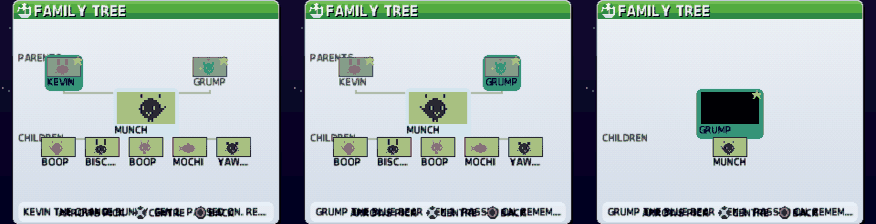
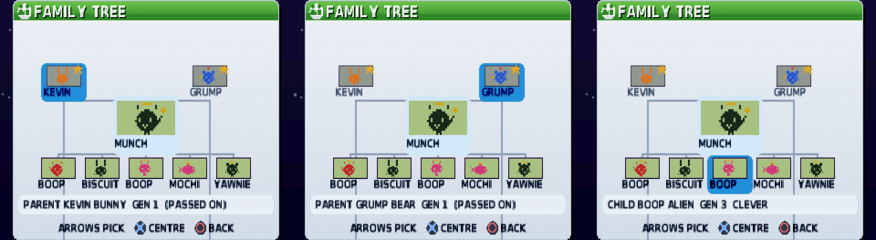
Boreagotchi UI: fix overlapping hints, tree labels and dress title; AUTO_GVIEWS screen tour
Claude-Session: https://claude.ai/code/session_01HmRg38Ho1eHKsYp7LCd8R6

diff --git a/src/gotchi_ui.c b/src/gotchi_ui.c
@@ -577,13 +577,13 @@ static void draw_friend(void) {
     sprintf(s, "%s THE %s", gx_given(c->nm), nm); strip(s);
     sprintf(s, u == t ? "YOURS" : "%s'S", os >= 0 ? sims[os].bore.first : "?"); lt(84, 22, s); lt(84, 34, relname(ck()->id, kc->id)); sprintf(s, "%d OF %d", sub + 1, fr_n); lt(84, 46, s);
     sprintf(s, "%s", gx_pers(kc->pers)); lt(84, 58, s); ui_icon_s(84, 72, IC_HEART, 12, c->bond >= 60 ? UI_RED : UI_LINE); lt(100, 74, c->bond >= 60 ? "CLOSE" : "NEW");
-    bar_msg("X PLAYDATE  SQ BATTLE  LR PICK  UD OTHER FAMILY");
+    bar_msg("X PLAY  SQ BATTLE  LR PICK  UD FAMILY");
 }
 static void draw_dress(void) {
     draw_hand(1); lcd_panel(); Blob *b = cb(); Kin k = *ck(); k.acc = (u8)sub; char s[40];
     scene(b, &k, anim / 20, 0, danceT > 0 ? MD_DANCE : MD_HAPPY); dots_draw(80, 18, 4, 0, 16, 0, 32);
-    ltc(160, 20, gx_acc(sub)); { const Toy *t = tt(); if (sub == 0 || (t->accs & (1 << sub))) s[0] = 0, strcpy(s, sub == ck()->acc ? "WEARING IT" : "OWNED"); else sprintf(s, "$%d", gx_acc_cost(sub)); lt(84, 100, s); }
-    sprintf(s, "%d / %d", sub + 1, NACC); lt(210, 100, s); ui_hints(160, 217, "X WEAR|LR PICK|O BACK", 1);
+    ltc(160, 100, gx_acc(sub)); { const Toy *t = tt(); if (sub == 0 || (t->accs & (1 << sub))) s[0] = 0, strcpy(s, sub == ck()->acc ? "WEARING IT" : "OWNED"); else sprintf(s, "$%d", gx_acc_cost(sub)); lt(84, 16, s); }
+    sprintf(s, "%d / %d", sub + 1, NACC); lt(210, 16, s); ui_hints(160, 217, "X WEAR|LR PICK|O BACK", 1);
 }
 static void draw_more(void) {
     draw_hand(1); lcd_panel(); static const char *const it[5] = { "FAMILY HOME", "PET DIARY", "AWARDS", "BLOBDEX", "HELP PAGES" };
@@ -621,7 +621,7 @@ static void draw_dexd(void) {
     for (int i = 0; i < GFORMS; i++) { int x = 20 + i * 47, h = gotchi_dex_has(dexsel, i); ui_round(x - 1, top + 86, 46, 26, 5, i == dexf ? UI_BLUE : UI_LINE, i == dexf ? UI_BLUE : UI_LINE, 0);
         ui_round(x, top + 87, 44, 24, 4, h ? UI_RGB(172, 196, 128) : UI_RGB(206, 214, 232), h ? UI_RGB(172, 196, 128) : UI_RGB(206, 214, 232), 0); dex_pet(dexsel, i, col, h, x - 2, top + 87, 1, 0); chip(x + 22, top + 114, h ? gx_form(i) : "???", h ? fcol[i] : UI_LINE, UI_WHITE); }
     ui_text(20, top + 134, 1, "COLOURS SEEN", UI_INK); for (int c = 0; c < 8; c++) { int sn = gotchi_cdex_has(dexsel, c); const u8 *p = PAL[c]; ui_disc(32 + c * 28, top + 156, 16, sn ? UI_RGB(p[0], p[1], p[2]) : UI_LINE); if (!sn) ui_textc(32 + c * 28, top + 152, 1, "?", UI_WHITE); }
-    ui_wrap(20, top + 166, 270, 2, "FAMILIES CAN HAND DOWN COLOURS, KINDS AND RARE MUTATIONS.", UI_SOFT);
+    ui_textfit(20, top + 168, 276, "KIDS CAN INHERIT COLOURS AND RARE MUTATIONS", UI_SOFT);
     ui_hints(160, 214, "LR FORM|O BACK", 1);
 }
 // ---- the family tree ----
@@ -647,7 +647,7 @@ void tree_input(int pr) {
 static void draw_tree(void) {
     sky(); ui_accent = 2; int top = ui_window(14, 8, 292, 224, "FAMILY TREE", IC_PEOPLE); ui_accent = 0; tree_build();
     if (!ntn) { ui_wrapc(30, top + 40, 260, 3, "THIS PET HAS NO FAMILY RECORD YET. EGGS FROM A PAIR START A TREE.", UI_SOFT); ui_hints(160, 214, "O BACK", 1); return; }
-    static const int ry[4] = { 0, 32, 64, 112 };
+    static const int ry[4] = { 0, 32, 64, 118 };
     int sy = top + 2;
     for (int i = 0; i < ntn; i++) {   // the lines first: from each parent's foot down to the child's head
         if (tn[i].row == 2 && tn[i].id != treeId) continue;
@@ -657,15 +657,15 @@ static void draw_tree(void) {
     }
     for (int i = 0; i < ntn; i++) {
         const Line *l = gotchi_line(tn[i].id); if (!l) continue; Blob b; Kin k; kin_blob(&b, &k, l); int sel = i == treeSel, alive = l->fc & 128, gone = (l->fc & 64) != 0, row = tn[i].row, x = tn[i].x, y = sy + ry[row] + 4;
-        int self = tn[i].id == treeId; int w = self ? 68 : 36;
-        if (self) { ui_round(x - 36, y - 4, 72, 52, 7, UI_HILITE, UI_HILITE, 0); }
-        if (sel) ui_round(x - w / 2 - 3, y - 3, w + 6, self ? 50 : 36, 6, UI_BLUE, UI_BLUE, 0);
+        int self = tn[i].id == treeId; int w = self ? 68 : 44;
+        if (self) { ui_round(x - 36, y - 4, 72, 55, 7, UI_HILITE, UI_HILITE, 0); }
+        if (sel) ui_round(x - w / 2 - 3, y - 3, w + 6, self ? 53 : 36, 6, UI_BLUE, UI_BLUE, 0);
         if (self) { scene(&b, &k, anim / 20, 0, MD_NORM); gfx_rect(x - 32, y, 64, 32, alive ? 172 : 150, alive ? 196 : 158, alive ? 128 : 150, 0); dots_all(x - 32, y, 2); }
         else mini_tile(&b, &k, x - 18, y, 36, gone);
-        ui_textfit(x - w / 2, y + (self ? 34 : 20), w, gx_given(l->nm), gone ? UI_SOFT : UI_INK);
+        ui_textfit(x - w / 2, y + (self ? 36 : 20), w, gx_given(l->nm), gone ? UI_SOFT : UI_INK);
         if (gone) ui_icon_s(x + (self ? 24 : 10), y - 2, IC_STAR, 10, UI_AMBER);
     }
-    { const Line *l = gotchi_line(tn[treeSel].id); char s[80]; int by = top + 152;
+    { const Line *l = gotchi_line(tn[treeSel].id); char s[80]; int by = top + 158;
       ui_round(20, by, 280, 18, 6, UI_PANEL, UI_PANEL, 0);
       if (l) { static const char *const rw[4] = { "GRANDPARENT", "PARENT", "", "CHILD" }; int rn = tn[treeSel].row; sprintf(s, "%s %s %s  GEN %d  %s", rn == 2 ? (tn[treeSel].id == treeId ? "THIS PET" : "SIBLING") : rw[rn], gx_given(l->nm), gx_species(l->sp), (l->pg >> 3) + 1, (l->fc & 64) ? "(PASSED ON)" : gx_pers(l->pg & 7)); ui_textfit(26, by + 5, 270, s, UI_INK); } }
     ui_hints(160, 214, "ARROWS PICK|X CENTRE|O BACK", 1);
@@ -788,6 +788,10 @@ static void draw_guide(void) {
     { char b[16]; sprintf(b, "%d OF %d", guidepage + 1, NGP); ui_text(24, 216, 1, b, UI_SOFT); } ui_hints(160, 214, "L1 R1 PAGE|O BACK", 1);
 }
 void gotchi_draw(void) {
+#ifdef AUTO_GVIEWS
+    { static int n; static const u8 vl[] = { V_BOX, V_BASKET, V_HAND, V_DEX, V_DEXD, V_FEED, V_PLAYPICK, V_FRIEND, V_STATS, V_GUIDE, V_TREE, V_HOME, V_DIARY, V_AWARD, V_MORE, V_DRESS, V_TREE, V_LOOK, V_COPY, V_CATCH, V_HILO, V_TREE, V_TREE };
+      int k = n++ / 60; if (k < (int)sizeof vl && n % 60 == 1) { view = vl[k]; sub = (k == 9) ? 0 : 1; bi = 0; isel = 0; treeId = 0; treeSel = k == 16 ? 1 : k == 21 ? 4 : k == 22 ? 5 : 0; dexsel = 17; dexf = 1; gach = 0x2A5; homeSel = 3; if (view == V_LOOK) start_look(); if (view == V_COPY) start_copy(); if (view == V_CATCH) start_catch(); if (view == V_HILO) start_hilo(); } }
+#endif
     switch (view) {
     case V_BOX: draw_box(); break; case V_BASKET: draw_basket(); break; case V_HAND: draw_hand(0); break; case V_FEED: draw_feed(); break;
     case V_PLAYPICK: draw_playpick(); break; case V_LOOK: draw_look(); break; case V_COPY: draw_copy(); break; case V_CATCH: draw_catch(); break; case V_HILO: draw_hilo(); break;
